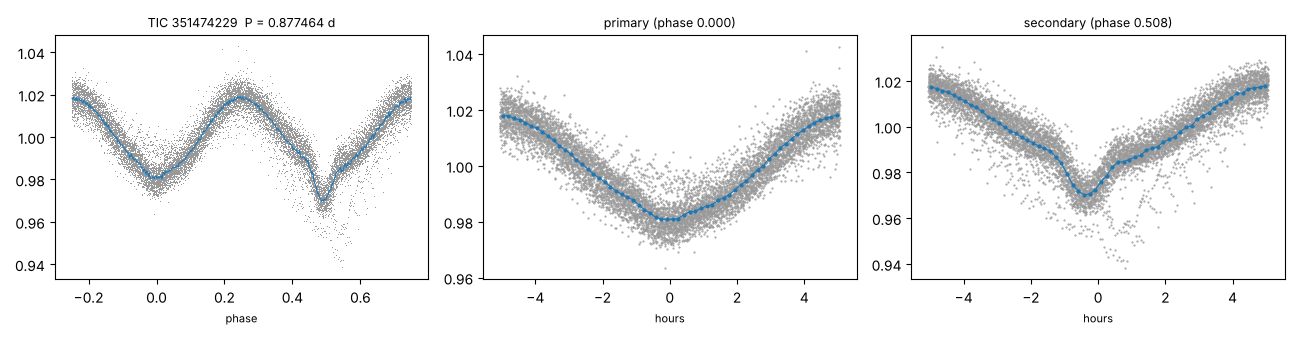
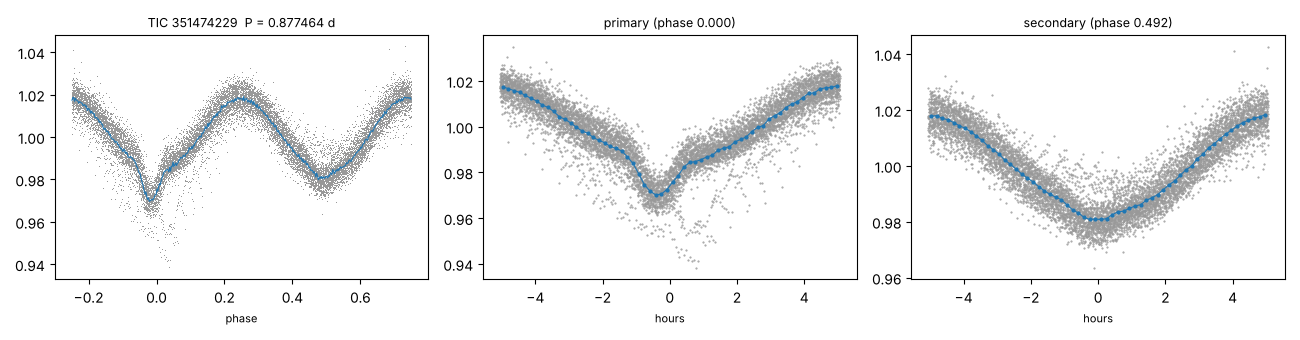
Fix TIC 351474229 reference eclipse; log more Sector 104 rejections
Claude-Session: https://claude.ai/code/session_012iPWtV5eb13VUfPvtRs1sr

diff --git a/tess-search/src/eb_merge.py b/tess-search/src/eb_merge.py
@@ -31,7 +31,7 @@ NOTES = {
 # finer phase scan (0.0025 steps, wider window): secondary centred at 0.500, 570 +- 47 ppm
 # 63594264 and 33445288: the automatic search returned the primary eclipse wing; the secondaries sit at phase 0.50
 PHASE_FIX = {124358211: (0.0040, 0.503), 217228307: (0.0033, 0.487), 304770656: (0.0073, 0.489), 343895671: (0.2765, 0.501),
-             351474229: (0.0276, 0.492), 363482012: (0.0673, 0.500), 379508029: (float("nan"), float("nan")),
+             363482012: (0.0673, 0.500), 379508029: (float("nan"), float("nan")),
              217276354: (0.287, 0.526), 412733784: (0.0051, 0.517), 6598941: (0.057e-2, 0.5), 63594264: (0.6e-2, 0.5), 33445288: (1.85e-2, 0.5)}
 
 

diff --git a/tess-search/README.md b/tess-search/README.md
@@ -196,7 +196,7 @@ in [`candidates/final_figs/`](candidates/final_figs/).
 | 115242114 | TYC 7527-529-1 | 11.52 | 3.935908 | 1.1 % | 0.17 % (0.500) | 5 | detached | RUWE 46, plx 0.16 mas (astrometry unreliable) |
 | 33445288 | TYC 6431-1534-1 | 10.99 | 0.7986 | 4.2 % | 1.85 % (0.500) | 4 | contact/ellipsoidal | eclipses on top of ellipsoidal variation; Gaia NSS solution exists (binarity known; eclipses new); Gaia RV amplitude 176 km/s |
 | 76440895 | - | 11.26 | 0.677319 | 3.0 % | 1.95 % (0.502) | 6 | contact/ellipsoidal | well-separated eclipses; grouped with close binaries only because P < 0.8 d; RUWE 11.5 |
-| 351474229 | - | 11.92 | 0.8775 | 2.8 % | 2.31 % (0.508) | 6 | contact/ellipsoidal | eclipses on top of ellipsoidal variation; Gaia NSS solution exists (binarity known; eclipses new); not in Kostov+25 table 2; Gaia RV amplitude 243 km/s |
+| 351474229 | - | 11.92 | 0.8775 | 2.3 % | 2.76 % (0.492) | 6 | contact/ellipsoidal | sharp eclipse on top of ellipsoidal variation; the broad minimum at phase 0.49 is as deep (2.8 %) because the ellipsoidal dip adds to it; Gaia NSS solution exists (binarity known; eclipses new); not in Kostov+25 table 2; Gaia RV amplitude 243 km/s |
 | 32398505 | TYC 7003-400-1 | 11.50 | 0.601493 | 2.0 % | 0.34 % (0.505) | 4 | contact/ellipsoidal |  |
 | 114787953 | TYC 7951-1401-1 | 11.74 | 0.60577 | 1.0 % | 0.67 % (0.500) | 3 | contact/ellipsoidal | not in Kostov+25 table 2 |
 | 71315603 | CD-44 14744 | 11.02 | 0.507699 | 0.6 % | 0.30 % (0.500) | 3 | contact/ellipsoidal |  |

diff --git a/tess-search/FINDINGS.md b/tess-search/FINDINGS.md
@@ -265,3 +265,5 @@ The first S104 pass vetted only the small-dip dwarf hosts. The remaining survivo
   Gaia NSS solution
 - TIC 218815113 (F star, 0.5 %): secondary 798 ppm at 4.3 sigma, 17" offsets at 2.6-4.0 sigma (S66, S104), neighbours
   outshine the target in the aperture (TIC contamination ratio 1.36) -> blended EB
+- TIC 351474229: the window-averaged depth of the broad ellipsoidal minimum (2.8 %) exceeds that of the sharp eclipse
+  (2.3 %), so the automatic swap in eb_merge.py put phase 0 on the wrong feature; T0 was reset by hand to the sharp eclipse
